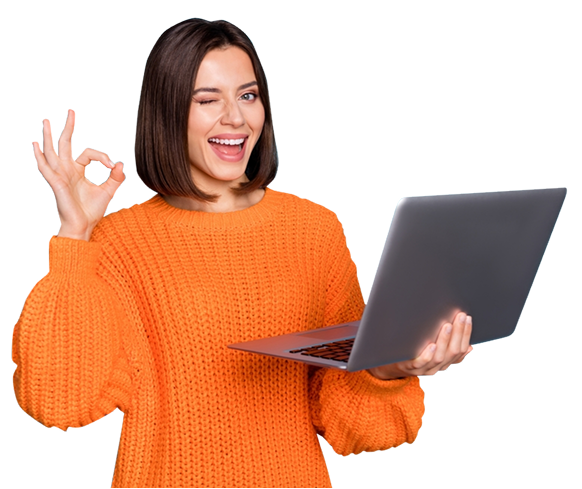
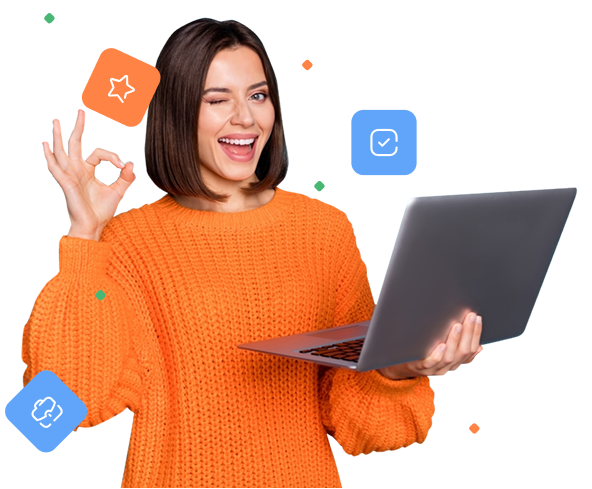
update: hero section

diff --git a/components/Hero.tsx b/components/Hero.tsx
@@ -2,110 +2,38 @@
 
 import { motion } from "framer-motion";
 import Image from "next/image";
+import { ArrowUpRight, Weight } from "lucide-react";
 
 const Hero = () => {
-  return (
-    <section className="min-h-screen flex items-center justify-center px-6 pt-24 pb-16 relative overflow-hidden">
-      {/* Gradient Circle - Top Left */}
-      <div className="absolute top-20 left-10 w-96 h-96 bg-gradient-to-r from-blue-300 to-white rounded-full blur-3xl opacity-40 -z-10"></div>
-      
-      {/* Gradient Circle - Bottom Right */}
-      <div className="absolute bottom-20 right-10 w-80 h-80 bg-gradient-to-r from-yellow-300 to-white rounded-full blur-3xl opacity-40 -z-10"></div>
+    return (
+        <section className="min-h-screen flex items-center justify-center px-6 pt-24 pb-16 relative overflow-hidden">
+            {/* <div className="overflow-hidden w-[1880px] h-[7522px] relative"> */}
+            <div className="overflow-hidden w-full h-screen relative flex items-center justify-center">
+                <div className="absolute w-[446px] h-[446px] top-36 left-[1108px] bg-amber-300 rounded-[223px]" />
+                <div className="absolute w-[139px] h-[139px] top-[80px] left-[210px] bg-[#FAB386] rounded-[91.5px]" />
+                <div className="absolute w-[139px] h-[139px] top-[568px] left-0 bg-[#fab286] rounded-[91.5px]" />
+                <div className="absolute w-[239px] h-[239px] top-[568px] left-[280px] bg-[#1C8CFF] rounded-[120.5px]" />
 
-      <div className="max-w-7xl mx-auto relative z-10">
-        {/* Glassmorphism Hero Card */}
-        <motion.div
-          initial={{ opacity: 0, y: 50 }}
-          animate={{ opacity: 1, y: 0 }}
-          transition={{ duration: 1, ease: "easeOut" }}
-          className="bg-white/40 backdrop-blur-lg border border-white/30 shadow-lg rounded-2xl p-12 lg:p-16"
-        >
-          <div className="grid lg:grid-cols-2 gap-12 items-center">
-            {/* Content */}
-            <motion.div
-              initial={{ opacity: 0, x: -30 }}
-              animate={{ opacity: 1, x: 0 }}
-              transition={{ duration: 0.8, delay: 0.3 }}
-              className="text-center lg:text-left"
-            >
-              <motion.h1
-                initial={{ opacity: 0, y: 30 }}
-                animate={{ opacity: 1, y: 0 }}
-                transition={{ duration: 0.8, delay: 0.5 }}
-                className="text-5xl lg:text-7xl font-bold text-gray-800 mb-6 leading-tight"
-              >
-                Beautiful
-                <br />
-                <span className="bg-gradient-to-r from-blue-300 to-yellow-300 bg-clip-text text-transparent">
-                  Soft UI
-                </span>
-              </motion.h1>
-              
-              <motion.p
-                initial={{ opacity: 0, y: 20 }}
-                animate={{ opacity: 1, y: 0 }}
-                transition={{ duration: 0.8, delay: 0.7 }}
-                className="text-xl text-gray-600 mb-8 leading-relaxed max-w-lg mx-auto lg:mx-0"
-              >
-                Experience the future of web design with our modern glassmorphism interface. 
-                Clean, elegant, and incredibly smooth.
-              </motion.p>
-              
-              <motion.div
-                initial={{ opacity: 0, y: 20 }}
-                animate={{ opacity: 1, y: 0 }}
-                transition={{ duration: 0.8, delay: 0.9 }}
-                className="flex flex-col sm:flex-row gap-4 justify-center lg:justify-start"
-              >
-                <motion.button
-                  whileHover={{ scale: 1.05, y: -2 }}
-                  whileTap={{ scale: 0.95 }}
-                  className="px-8 py-4 bg-gradient-to-r from-blue-300 to-yellow-300 text-white font-semibold rounded-2xl shadow-lg hover:shadow-xl transition-all duration-300"
-                >
-                  Get Started
-                </motion.button>
-                <motion.button
-                  whileHover={{ scale: 1.05, y: -2 }}
-                  whileTap={{ scale: 0.95 }}
-                  className="px-8 py-4 bg-white/50 backdrop-blur-sm border border-white/30 text-gray-700 font-semibold rounded-2xl hover:bg-white/70 transition-all duration-300"
-                >
-                  Learn More
-                </motion.button>
-              </motion.div>
-            </motion.div>
-
-            {/* Image */}
-            <motion.div
-              initial={{ opacity: 0, x: 30 }}
-              animate={{ opacity: 1, x: 0 }}
-              transition={{ duration: 0.8, delay: 0.4 }}
-              className="relative"
-            >
-              <div className="relative w-full h-96 lg:h-[500px] rounded-2xl overflow-hidden shadow-2xl">
-                <div className="w-full h-full bg-gradient-to-br from-blue-200 via-white to-yellow-200 flex items-center justify-center">
-                  <div className="text-6xl text-gray-400">🎨</div>
+                <div className="relative z-10 w-[96%] max-w-full p-16 rounded-3xl bg-white/10 border border-white/80 backdrop-blur-2xl shadow-sm -translate-y-24">
+                    <div className="flex max-sm:flex-col flex-row gap-2 justify-center align-middle items-center px-24">
+                        <div className="flex-1 flex flex-col gap-11">
+                            <h2 className="text-6xl max-w-2xl" style={{ fontWeight: 500 }}>EMPOWERING BUSINESS WITH SMART SOLUTIONS</h2>
+                            <p className="text-slate-400 text-3xl max-w-[630px]" style={{ lineHeight: 1.5 }}>
+                                We believe technology is not merely a tool, but a force that connects opportunities, accelerates processes, and creates new value for business partners.
+                            </p>
+                            <div className="py-3 px-4 max-w-[150px] items-center align-middle justify-center rounded-full bg-blue-400 text-white flex flex-row gap-2">
+                                <span className="font-semibold">Chat Now</span>
+                                <ArrowUpRight />
+                            </div>
+                        </div>
+                        <div className="flex-1">
+                            <Image src="/actor_1.png" alt="nextActorImage" width={1700} height={1700} />
+                        </div>
+                    </div>
                 </div>
-                {/* Glassmorphism overlay on image */}
-                <div className="absolute inset-0 bg-white/20 backdrop-blur-[1px]"></div>
-              </div>
-              
-              {/* Floating elements */}
-              <motion.div
-                animate={{ y: [0, -10, 0] }}
-                transition={{ duration: 3, repeat: Infinity }}
-                className="absolute -top-6 -right-6 w-20 h-20 bg-gradient-to-r from-yellow-300 to-white rounded-full shadow-lg opacity-80"
-              ></motion.div>
-              <motion.div
-                animate={{ y: [0, 10, 0] }}
-                transition={{ duration: 4, repeat: Infinity, delay: 1 }}
-                className="absolute -bottom-4 -left-4 w-16 h-16 bg-gradient-to-r from-blue-300 to-white rounded-full shadow-lg opacity-80"
-              ></motion.div>
-            </motion.div>
-          </div>
-        </motion.div>
-      </div>
-    </section>
-  );
+            </div>
+        </section>
+    );
 };
 
 export default Hero;

diff --git a/components/ContentSection.tsx b/components/ContentSection.tsx
@@ -1,6 +1,7 @@
 "use client";
 
 import { motion } from "framer-motion";
+import Image from "next/image";
 
 const ContentSection = () => {
   const cards = [
@@ -101,9 +102,11 @@ const ContentSection = () => {
             
             <div className="relative">
               <div className="w-full h-80 bg-gradient-to-br from-blue-100 via-white to-yellow-100 rounded-2xl shadow-2xl flex items-center justify-center overflow-hidden">
-                <div className="text-8xl text-gray-300">🌟</div>
+                <div className="text-8xl text-gray-300">
+                  <Image src="/me_temporary.jpg" alt="nextActorImage" width={1700} height={1700} />
+                </div>
                 {/* Glassmorphism overlay */}
-                <div className="absolute inset-0 bg-white/30 backdrop-blur-sm"></div>
+                {/* <div className="absolute inset-0 bg-white/30 backdrop-blur-sm"></div> */}
               </div>
               
               {/* Floating decorative elements */}
